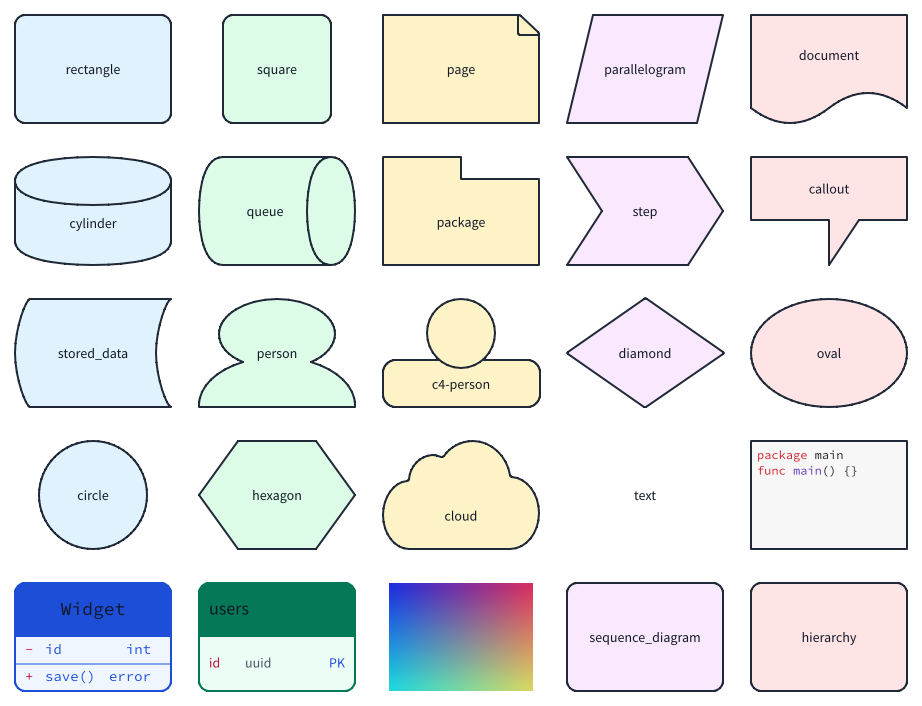
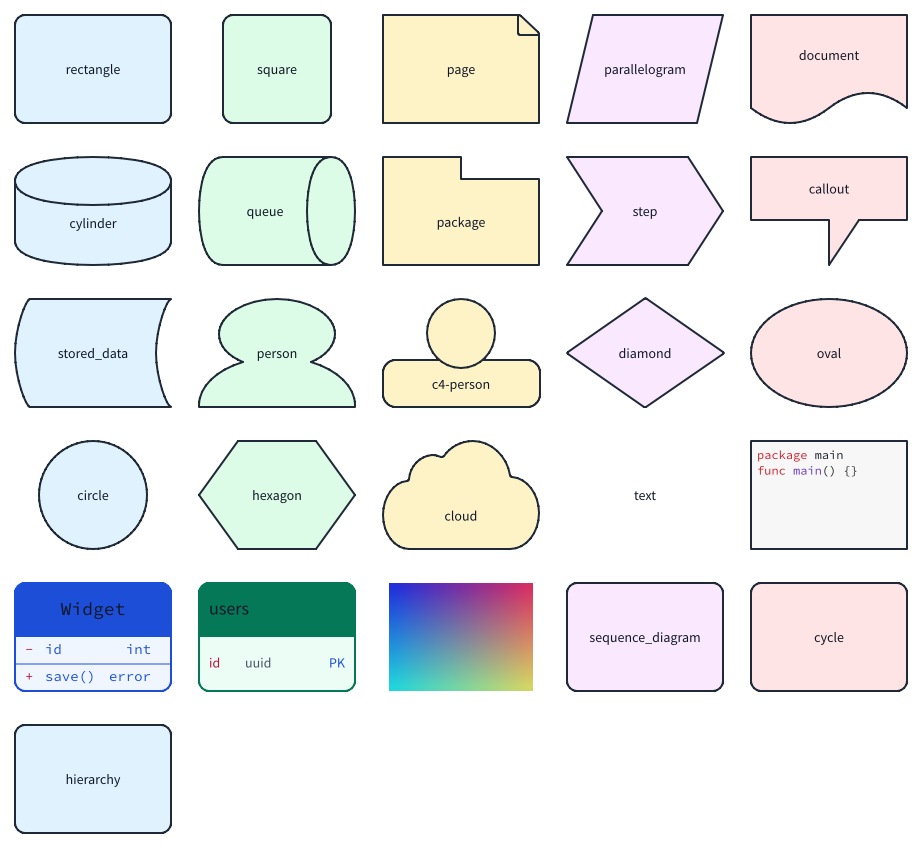
Render the cycle shape in the scene builder
master added a raster/scene path that draws each shape from an
explicit type switch, with a default branch that asks lib/shape for
path commands. Square-family shapes have no path commands, so the
cycle container fell through and failed with "unsupported typed
geometry for cycle" in TestTargetShapePixels.

Handle cycle next to sequence_diagram and hierarchy in the four
square-family switches, add it to the shape lists the two scene
builder tests enumerate, and regenerate the target-shapes golden.

diff --git a/d2renderers/d2scenebuild/sketch_shapes.go b/d2renderers/d2scenebuild/sketch_shapes.go
@@ -127,7 +127,7 @@ func (b *builder) buildSketchOrdinaryShape(targetShape d2target.Shape, idPrefix 
 			object, idPrefix, fillRaw, strokeRaw, strokeWidth, dashes, dashOffset,
 			drawable, d2scene.Translate(float64(targetShape.Pos.X), float64(targetShape.Pos.Y)), targetShape,
 		)
-	case d2target.ShapeRectangle, d2target.ShapeSquare, d2target.ShapeSequenceDiagram, d2target.ShapeHierarchy, "":
+	case d2target.ShapeRectangle, d2target.ShapeSquare, d2target.ShapeSequenceDiagram, d2target.ShapeCycleDiagram, d2target.ShapeHierarchy, "":
 		drawable := newSketchGenerator().Rectangle(0, 0, float64(targetShape.Width), float64(targetShape.Height), options)
 		nodes, err = b.compileSketchShapeDrawable(
 			object, idPrefix, fillRaw, strokeRaw, strokeWidth, dashes, dashOffset,
@@ -156,7 +156,7 @@ func (b *builder) buildSketchOrdinaryShape(targetShape d2target.Shape, idPrefix 
 			RadiusX: float64(targetShape.Width) / 2,
 			RadiusY: float64(targetShape.Height) / 2,
 		})
-	case d2target.ShapeRectangle, d2target.ShapeSquare, d2target.ShapeSequenceDiagram, d2target.ShapeHierarchy, "":
+	case d2target.ShapeRectangle, d2target.ShapeSquare, d2target.ShapeSequenceDiagram, d2target.ShapeCycleDiagram, d2target.ShapeHierarchy, "":
 		overlayPrimitives = append(overlayPrimitives, d2scene.Rect{Box: sketchShapeBox(targetShape)})
 	default:
 		for _, node := range roughNodes {
@@ -578,7 +578,7 @@ func (b *builder) buildSketchOutlineOnly(targetShape d2target.Shape, idPrefix st
 			),
 			d2scene.Translate(float64(targetShape.Pos.X), float64(targetShape.Pos.Y)), targetShape,
 		)
-	case d2target.ShapeRectangle, d2target.ShapeSquare, d2target.ShapeSequenceDiagram, d2target.ShapeHierarchy, "":
+	case d2target.ShapeRectangle, d2target.ShapeSquare, d2target.ShapeSequenceDiagram, d2target.ShapeCycleDiagram, d2target.ShapeHierarchy, "":
 		return b.compileSketchShapeDrawable(
 			object, idPrefix, fillRaw, strokeRaw, strokeWidth, dashes, dashOffset,
 			newSketchGenerator().Rectangle(0, 0, float64(targetShape.Width), float64(targetShape.Height), options),

diff --git a/d2renderers/d2scenebuild/shape_effects.go b/d2renderers/d2scenebuild/shape_effects.go
@@ -295,7 +295,7 @@ func (b *builder) buildOrdinaryShapeOutline(targetShape d2target.Shape, fill d2s
 			Fill:    fill,
 			Stroke:  stroke,
 		}))
-	case d2target.ShapeRectangle, d2target.ShapeSquare, d2target.ShapeSequenceDiagram, d2target.ShapeHierarchy, "":
+	case d2target.ShapeRectangle, d2target.ShapeSquare, d2target.ShapeSequenceDiagram, d2target.ShapeCycleDiagram, d2target.ShapeHierarchy, "":
 		radius := clampBorderRadius(float64(targetShape.BorderRadius), box.Width, box.Height)
 		nodes = append(nodes, d2scene.NewNode(d2scene.Rect{
 			Box:     box,

diff --git a/d2renderers/d2scenebuild/sketch_shapes_test.go b/d2renderers/d2scenebuild/sketch_shapes_test.go
@@ -28,7 +28,7 @@ func TestSketchOrdinaryShapeFamiliesUseTypedRoughPathsDeterministically(t *testi
 		d2target.ShapeStep, d2target.ShapeCallout, d2target.ShapeStoredData,
 		d2target.ShapePerson, d2target.ShapeC4Person, d2target.ShapeDiamond,
 		d2target.ShapeHexagon, d2target.ShapeCloud,
-		d2target.ShapeSequenceDiagram, d2target.ShapeHierarchy,
+		d2target.ShapeSequenceDiagram, d2target.ShapeCycleDiagram, d2target.ShapeHierarchy,
 	}
 	for _, shapeType := range shapeTypes {
 		name := shapeType

diff --git a/d2renderers/d2raster/target_pixel_coverage_test.go b/d2renderers/d2raster/target_pixel_coverage_test.go
@@ -56,6 +56,7 @@ func TestTargetShapePixels(t *testing.T) {
 		d2target.ShapeSQLTable,
 		d2target.ShapeImage,
 		d2target.ShapeSequenceDiagram,
+		d2target.ShapeCycleDiagram,
 		d2target.ShapeHierarchy,
 	}
 	if !reflect.DeepEqual(shapeValues, d2target.Shapes) {
